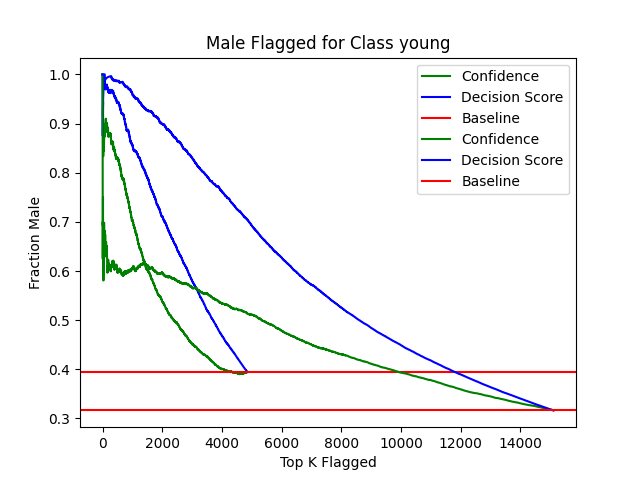
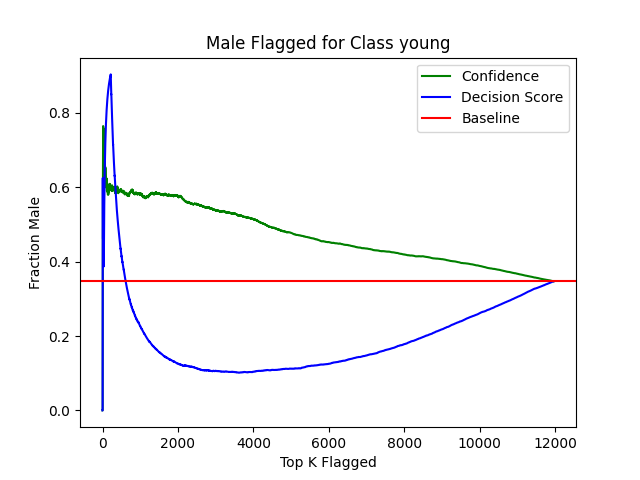
Testing accs

diff --git a/test_evals_orig.py b/test_evals_orig.py
@@ -12,9 +12,11 @@ load_dotenv()
 
 USE_RESNET = True
 BATCH_SIZE = 512
-assert torch.cuda.is_available(), "GPU is not available!"
-DEVICE = f'cuda:{torch.cuda.device_count()-1}'
-
+DEVICE = f'cuda' if torch.cuda.is_available() else 'cpu'
+if torch.cuda.is_available():
+    map_location=lambda storage, loc: storage.cuda()
+else:
+    map_location='cpu'
 
 # Load model
 MODEL_PATH = os.getenv("MODEL_PATH")
@@ -22,9 +24,9 @@ if USE_RESNET:
     OUT_FEATS = 1
     model = torchvision.models.resnet18()
     model.fc = nn.Linear(in_features=512, out_features=OUT_FEATS, bias=True)
-else: 
+else:
     model = CustomAgeNetwork()
-model.load_state_dict(torch.load(MODEL_PATH))
+model.load_state_dict(torch.load(MODEL_PATH, map_location=map_location))
 model.to(DEVICE)
 
 img_size = (int(os.getenv("IMG_WIDTH")), int(os.getenv("IMG_HEIGHT")))
@@ -97,7 +99,9 @@ def test_acc(data_loader, mode):
             end_idx = start_idx + BATCH_SIZE
             for f_idx, (f_path, class_num) in enumerate(data_loader.dataset.samples[start_idx:end_idx]):
                 # Use file path to get attributes val_orig/old/female
-                full_key = "_".join(f_path.split("/")[-3:-1]) # ex: old_female_no_smile
+                sex = "female" if "female" in f_path else "male"
+                age = "young" if "young" in f_path else "old"
+                full_key = "_".join([age, sex]) # ex: old_female_no_smile
                 if correct[f_idx] == True:
                     total_correct += 1
                     results[full_key]['correct'] = results[full_key]['correct'] + 1
@@ -111,5 +115,5 @@ def test_acc(data_loader, mode):
 
 if __name__ == "__main__":
     # test_acc(train_loader, "train")
-    test_acc(val_loader, "val")
-    # test_acc(test_loader, "test")
+    # test_acc(val_loader, "val")
+    test_acc(test_loader, "test")

diff --git a/new_top_k_results.py b/new_top_k_results.py
@@ -52,8 +52,8 @@ VAL_DIR, TEST_DIR = os.getenv("VAL_DIR"), os.getenv("TEST_DIR")
 # val_loader = DataLoader(val_data, batch_size=BATCH_SIZE)
 val_loader_no_trans = DataLoader(datasets.ImageFolder(VAL_DIR), batch_size=1)
 NUM_VAL_IMGS = len(val_loader_no_trans)
-test_data = datasets.ImageFolder(TEST_DIR, transform=data_transforms)
-test_loader = DataLoader(test_data, batch_size=BATCH_SIZE)
+# test_data = datasets.ImageFolder(TEST_DIR, transform=data_transforms)
+# test_loader = DataLoader(test_data, batch_size=BATCH_SIZE)
 test_loader_no_trans = DataLoader(datasets.ImageFolder(TEST_DIR), batch_size=1)
 NUM_TEST_IMGS = len(test_loader_no_trans)
 trained_svms, scalers = [], []
@@ -117,11 +117,6 @@ assert len(MODES) == len(trained_svms) == len(scalers), \
 
 print("Finished training SVMs on validation data.")
 for mode, svm_c, scaler in zip(MODES, trained_svms, scalers):
-
-    # Calculate SVM accuracy
-    #  -- Loop over all test images in class
-    #  -- Get correctness
-    #  -- Compare SVM output with correctness to get svm acc
 
     current_class_num = 1 if mode == 'young' else 0
     test_paths = [tup[0] for tup in test_loader_no_trans.dataset.samples \
@@ -206,8 +201,8 @@ for mode, svm_c, scaler in zip(MODES, trained_svms, scalers):
         if NUM_CORRS == 2:
             conf_num_smiles = conf_sorted_smiles[:num_people].sum()
             ds_num_smiles = ds_sorted_smiles[:num_people].sum()
-            conf_sorted_frac_smiles[num_people] = conf_num_smiles / num_people
-            ds_sorted_frac_smiles[num_people] = ds_num_smiles / num_people
+            conf_sorted_frac_smiles[num_people-1] = conf_num_smiles / num_people
+            ds_sorted_frac_smiles[num_people-1] = ds_num_smiles / num_people
 
     if mode == "old":
         minority_sex = "Female" # pylint: disable=invalid-name
